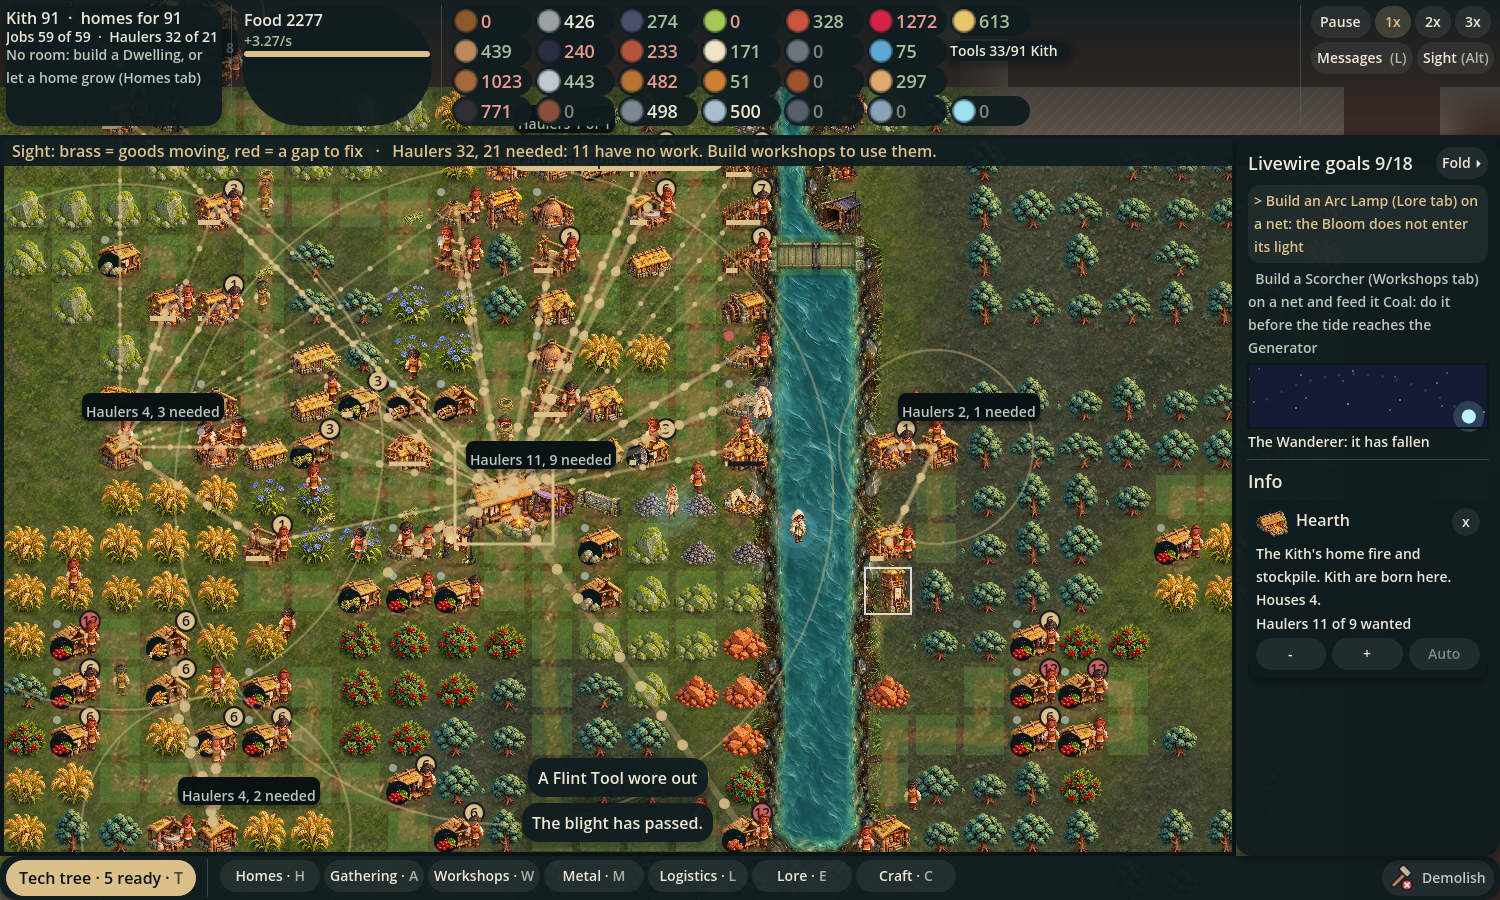
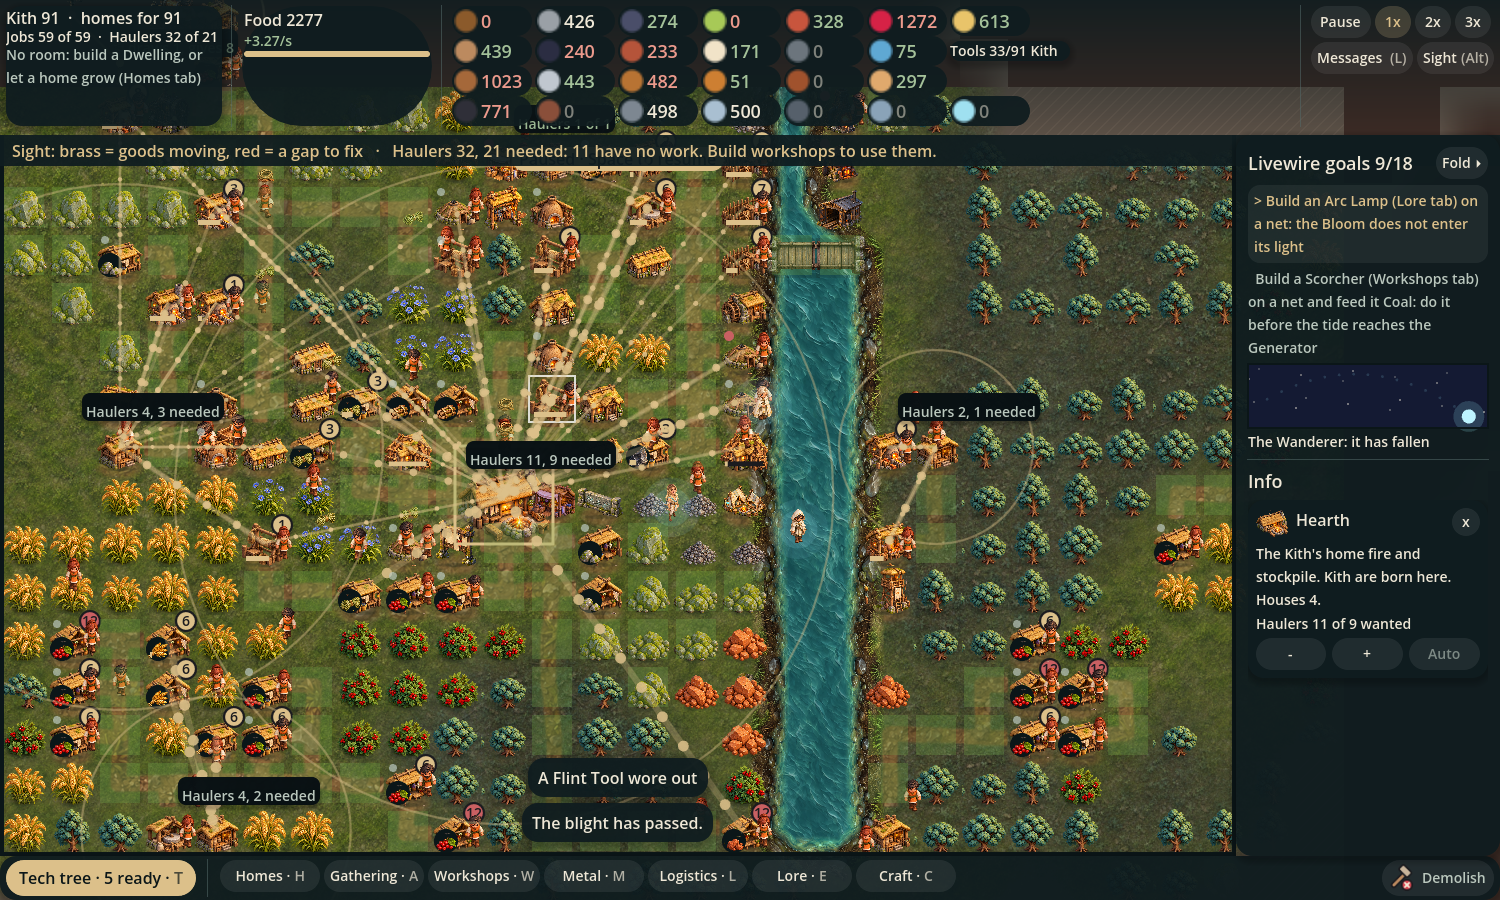
Remove the map stroke under the Glass top gradient

diff --git a/docs/art/glass-look/README.md b/docs/art/glass-look/README.md
@@ -13,7 +13,7 @@ Owner direction: Jon's Glass selection, 2026-10-24. Baseline: `3322bf0` (Sight #
 
 ## Skin contract
 
-`ui.gd` centralizes the Glass fills, radii, shadow, key opacity and Sight flow opacity. Existing semantic colours and callers remain. Panels use dark `0f1c1f` at 240/255 alpha (94.1%); cards use 6% white, buttons 7% white / 15% hover and 20% brass selected, with the existing solid brass primary action. Top bar fades from 88% to clear, with protected readout backings inside their original rectangles. Goods retain their original 24 px icon slot, painted as round colour swatches. Key text retains Button.text and its measurement, with the suffix drawn at 70% opacity.
+`ui.gd` centralizes the Glass fills, radii, shadow, key opacity and Sight flow opacity. Existing semantic colours and callers remain. Panels use dark `0f1c1f` at 240/255 alpha (94.1%); cards use 6% white, buttons 7% white / 15% hover and 20% brass selected, with the existing solid brass primary action. The map frame retains its geometry with its top stroke hidden. Top bar fades from 88% to clear, with protected readout backings inside their original rectangles. Goods retain their original 24 px icon slot, painted as round colour swatches. Key text retains Button.text and its measurement, with the suffix drawn at 70% opacity.
 
 Readability takes priority over the suggested 65% panel opacity. Over pure white, the protected panel gives ivory 12.07:1 and secondary text 8.50:1; a 6% white card over it gives 10.08:1 / 7.09:1. The old opaque panel gives 10.69:1 / 7.53:1 (old cards are lighter still). Pure white bounds snow, sand and Bloom ground. Status constants BAD, GOOD, SHORT, ACTION and KITH are unchanged. Dark action text remains on solid brass. Sight chips use a separate `081013` / 98% backing: red `Ui.BAD` is 4.70:1 over white, exceeding the former dark outline (4.36:1). Sight keeps red gaps, brass delivery lines and dim resting/paused dots; chips paint after all lines and share an eight-label, padding-aware collision budget, including hover.
 
@@ -40,4 +40,4 @@ Run with a display:
 
 The review fixture reuses `/tmp/solace-glass-fixture.run` if present; remove that file to build the current `livewire_tide` developer start afresh. It advances the loaded town 90 seconds to rebuild transient delivery history, then pauses simulation for the captures while allowing normal layout and drawing. Cursor-dependent hover info is cleared so pointer movement cannot change the paired text wrapping. The baseline uses the same fixture copied into a detached checkout of `3322bf0`. The docs directory is excluded from production imports, matching other art-review directories.
 
-Local validation: Godot import; strict editor warnings; GDScript lint/format; scripted play-through to Bronze Dawn; 20-minute layout pass (1,133 HUD checks, zero problems and zero scale changes); menu/save/load and play-log passes. Full logic suite and exact-head CI are tracked in the PR.
+Local validation: Godot import; strict editor warnings; GDScript lint/format; scripted play-through to Bronze Dawn; 20-minute layout pass (1,133 HUD checks, zero problems and zero scale changes); menu/save/load and play-log passes. The full local logic suite passes. Exact-head CI is tracked in the PR.

diff --git a/docs/HANDOFF.md b/docs/HANDOFF.md
@@ -6,9 +6,9 @@ Owner: the project owner (heezus). Two AI teams, one repo, coordinated by respon
 
 ### Codex — Glass interface skin
 - **Task:** owner's Glass skin and Sight drawing only, `codex/glass-look`, PR #147.
-- **Reserved files:** visual portions of `ui.gd`, top/build/side/building/tech/trade panels, `art.gd`, map-picker, toast/log and Sight drawing; `docs/art/glass-look/` and design decision log.
+- **Reserved files:** visual portions of `ui.gd`, top/build/side/building/tech/trade panels, the map frame top stroke in `main.gd`, `art.gd`, map-picker, toast/log and Sight drawing; `docs/art/glass-look/` and design decision log.
 - **Acceptance criteria:** unchanged geometry, gameplay/data/saves/tests; native paired building/tech/messages/Livewire Sight captures; strict warnings and full CI green.
-- **Status:** published native paired building/tech/messages/Livewire Sight captures in #147, with all visible Control rectangles unchanged; import, strict warnings, lint/format and scripted play/layout/menu/log passes clean. Final full suite/CI pending. Reservation releases on publication; focused follow-ups stay in #147.
+- **Status:** published native paired building/tech/messages/Livewire Sight captures in #147, with all visible Control rectangles unchanged; import, strict warnings, lint/format and scripted play/layout/menu/log passes clean. Full local suite passed; exact-head CI pending. Reservation releases on publication; focused follow-ups stay in #147.
 - **Next action:** Jon reviews images; Claude reviews and merges after exact-head CI is green.
 
 
